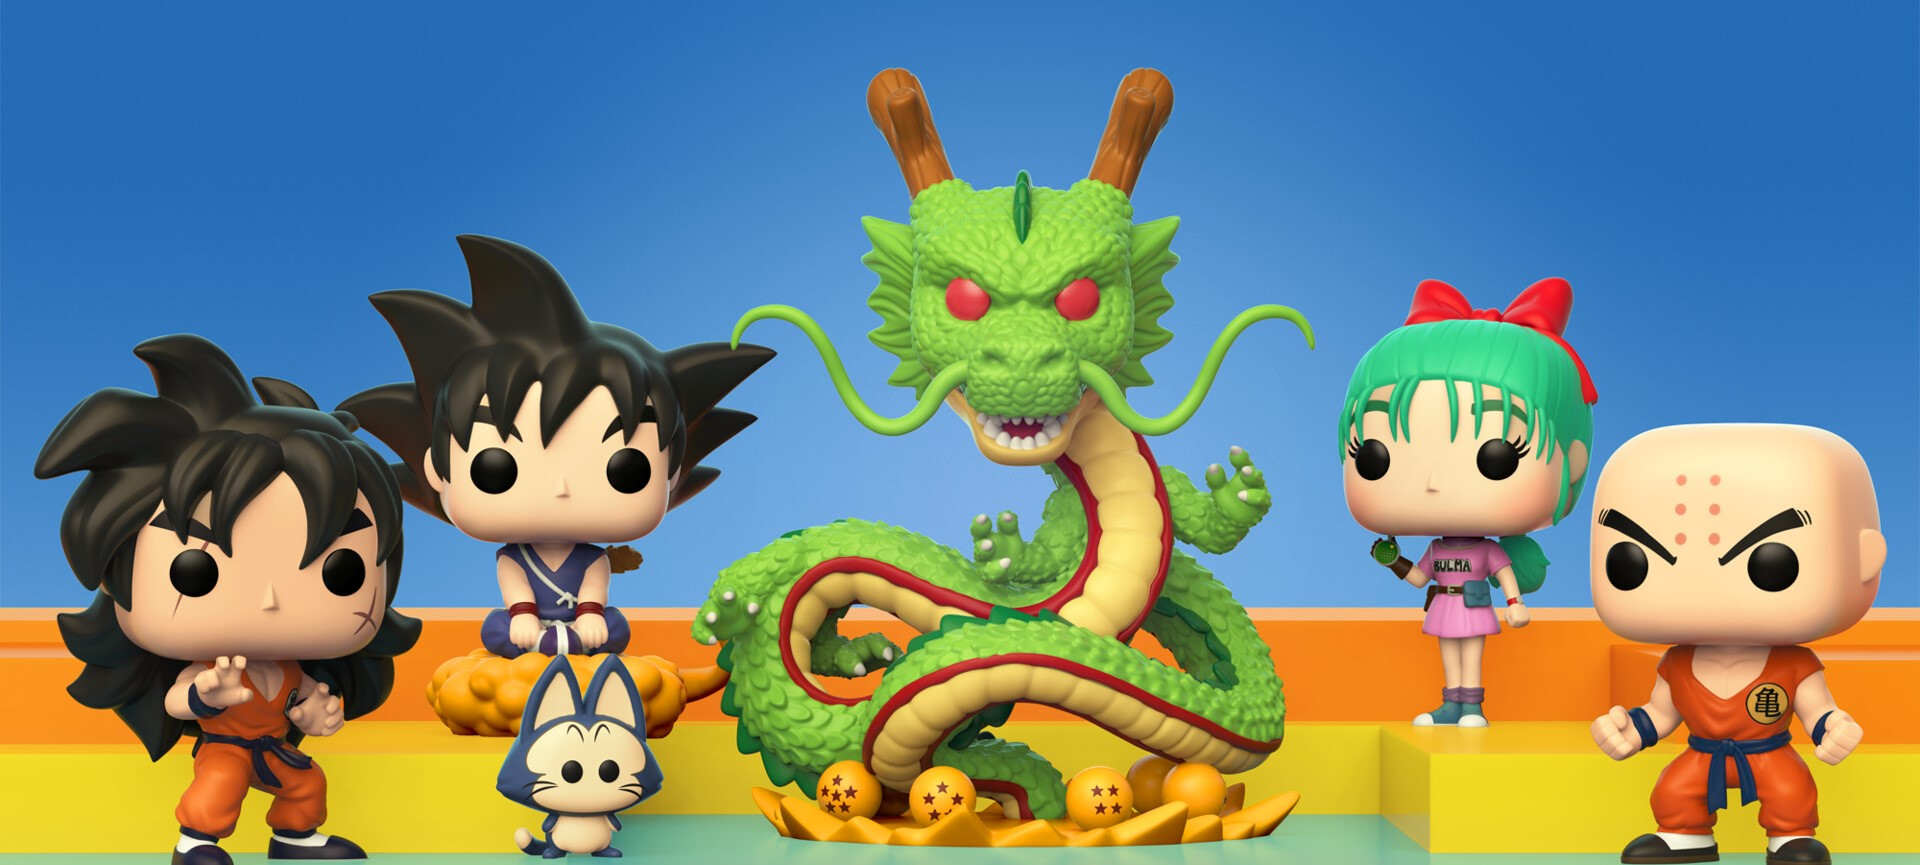
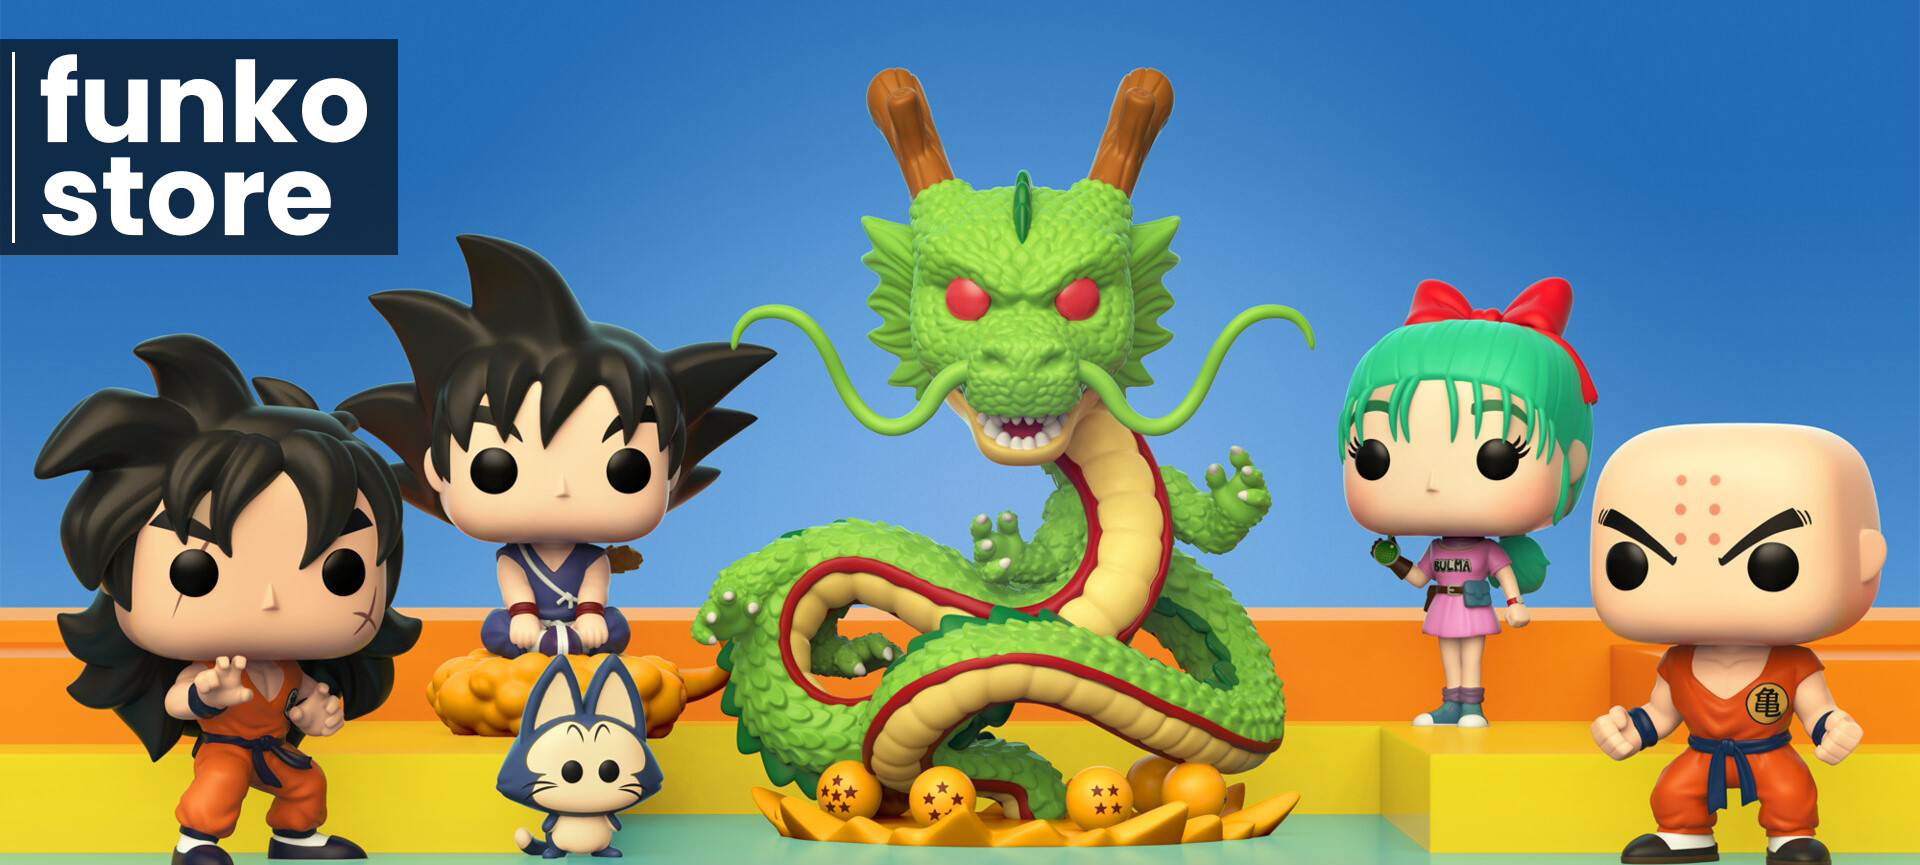
Visual Adjustments after Live 2
Changed Font Family for all CSS (from Montserrat to Poppins);
Visual adjustments and corrections for Footer (colors, icons, font-size, buttons, and many others);
Tags (classes) New and Discounts corrections for some products.

Changed region(s): [[0.0, 0.0312, 0.2188, 0.3121], [0.75, 0.3434, 0.7812, 0.3746]]

diff --git a/index.html b/index.html
@@ -72,7 +72,7 @@
                     <spam class="card__product--divprice"></spam>
                 </div>
     
-                <div class="news__products--card tag-discount" >
+                <div class="news__products--card tag-new" >
                     <div class="card__product">
                         <img class="card__product--img" src="./img/produto-25.png" alt="Cama para pet de cor vermelha e acolchoada" >
                         <div class="card__product--back"></div>
@@ -86,7 +86,7 @@
                     <spam class="card__product--divprice">99x de R$ 99,99</spam>
                 </div>
 
-                <div class="news__products--card">
+                <div class="news__products--card tag-discount">
                     <div class="card__product">
                         <img class="card__product--img" src="./img/produto-23.png" alt="Cama para pet com fixadores de parede">
                         <div class="card__product--back"></div>
@@ -100,7 +100,7 @@
                     <spam class="card__product--divprice"></spam>
                 </div>
 
-                <div class="news__products--card tag-new">
+                <div class="news__products--card tag-discount">
                     <div class="card__product">
                         <img class="card__product--img" src="./img/produto-24.png" alt="Cama para pet de cor vermelha e acolchoada">
                         <div class="card__product--back"></div>
@@ -129,7 +129,7 @@
                     <spam class="card__product--divprice"></spam>
                 </div>
     
-                <div class="news__products--card tag-discount">
+                <div class="news__products--card tag-new">
                     <div class="card__product">
                         <img class="card__product--img" src="./img/produto-25.png" alt="Cama para pet de cor vermelha e acolchoada" >
                         <div class="card__product--back"></div>
@@ -143,7 +143,7 @@
                     <spam class="card__product--divprice">99x de R$ 99,99</spam>
                 </div>
 
-                <div class="news__products--card">
+                <div class="news__products--card tag-discount">
                     <div class="card__product">
                         <img class="card__product--img" src="./img/produto-23.png" alt="Cama para pet com fixadores de parede">
                         <div class="card__product--back"></div>
@@ -157,7 +157,7 @@
                     <spam class="card__product--divprice"></spam>
                 </div>
 
-                <div class="news__products--card tag-new">
+                <div class="news__products--card tag-discount">
                     <div class="card__product">
                         <img class="card__product--img" src="./img/produto-24.png" alt="Cama para pet de cor vermelha e acolchoada">
                         <div class="card__product--back"></div>
@@ -202,7 +202,7 @@
                     <spam class="card__product--divprice"></spam>
                 </div>
     
-                <div class="highlights__products--card tag-discount">
+                <div class="highlights__products--card tag-new">
                     <div class="card__product">
                         <img class="card__product--img" src="./img/produto-25.png" alt="Cama para pet de cor vermelha e acolchoada" >
                         <div class="card__product--back"></div>
@@ -216,7 +216,7 @@
                     <spam class="card__product--divprice">99x de R$ 99,99</spam>
                 </div>
 
-                <div class="highlights__products--card">
+                <div class="highlights__products--card tag-discount">
                     <div class="card__product">
                         <img class="card__product--img" src="./img/produto-23.png" alt="Cama para pet com fixadores de parede">
                         <div class="card__product--back"></div>
@@ -230,7 +230,7 @@
                     <spam class="card__product--divprice"></spam>
                 </div>
 
-                <div class="highlights__products--card tag-new">
+                <div class="highlights__products--card tag-discount">
                     <div class="card__product">
                         <img class="card__product--img" src="./img/produto-24.png" alt="Cama para pet de cor vermelha e acolchoada">
                         <div class="card__product--back"></div>
@@ -259,7 +259,7 @@
                     <spam class="card__product--divprice"></spam>
                 </div>
     
-                <div class="highlights__products--card tag-discount">
+                <div class="highlights__products--card tag-new">
                     <div class="card__product">
                         <img class="card__product--img" src="./img/produto-25.png" alt="Cama para pet de cor vermelha e acolchoada" >
                         <div class="card__product--back"></div>
@@ -273,7 +273,7 @@
                     <spam class="card__product--divprice">99x de R$ 99,99</spam>
                 </div>
 
-                <div class="highlights__products--card">
+                <div class="highlights__products--card tag-discount">
                     <div class="card__product">
                         <img class="card__product--img" src="./img/produto-23.png" alt="Cama para pet com fixadores de parede">
                         <div class="card__product--back"></div>
@@ -287,7 +287,7 @@
                     <spam class="card__product--divprice"></spam>
                 </div>
 
-                <div class="highlights__products--card tag-new">
+                <div class="highlights__products--card tag-discount">
                     <div class="card__product">
                         <img class="card__product--img" src="./img/produto-24.png" alt="Cama para pet de cor vermelha e acolchoada">
                         <div class="card__product--back"></div>
@@ -352,13 +352,13 @@
 
                     </div> 
 
-                    <p>© 2019  •  CNPJ 00.000.000/0000-00</p><br>
+                    <p>© <script>document.write(new Date().getFullYear());</script>  •  CNPJ 00.000.000/0000-00</p><br>
                     <p>Rua Tal de Tal, 123 - Cidade, Estado</p>
 
                 </div>
                     
                 <div class="info__container--links">
-                    <h3>PET STORE</h3>
+                    <h3>FUNKO STORE</h3>
                     <a href="#">Quem Somos</a>
                     <a href="#">Como comprar</a>
                     <a href="#">Trocas e Devoluções</a>
@@ -367,9 +367,8 @@
     
                 <div class="info__container--contacts">
                     <h3>CONTATO</h3>
-                    <p>(99) 9999-9999</p>
-                    <p>(99) 9999-9999</p>
-                    <a href="mailto:petstore@petstore.com.br">petstore@petstore.com.br</a>
+                    <p>(15) 99180-7246</p>
+                    <a href="mailto:dwtoledo@outlook.com">dwtoledo@outlook.com</a>
                 </div>
     
                 <div class="info__container--payments">
@@ -397,9 +396,8 @@
         <section class="copyright">
 
             <div class="copyright__container">
-                <p>TECNOLOGIA E DESENVOLVIMENTO:</p>
-                <a href="#"><img src="./img/serie.png" class="logo-serie" alt="Logo da empresa Seri.e"></a>
-                <a href="#"><img src="./img/nuvemshop.png" class="logo-nuvemshop" alt="Logo da Nuvem Shop"></a>
+                <p>TECNOLOGIA E DESENVOLVIMENTO</p>
+                <a href="#"><img src="./img/logo.png" class="logo-serie" alt="Logo da empresa Seri.e"></a>
             </div>            
 
         </section>

diff --git a/css/style.css b/css/style.css
@@ -12,6 +12,11 @@
     scrollbar-width: none;
 }
 
+b {
+    color: var(--primary-color);
+    font-weight: 600;
+}
+
 body::-webkit-scrollbar {
     display: none;
 }
@@ -70,7 +75,7 @@ main {
 }
 
 .top-header__search > input::placeholder {
-    font-family: 'Montserrat', sans-serif;
+    font-family: 'Poppins', sans-serif;
     font-size: 0.9em;
 }
 
@@ -134,7 +139,6 @@ main {
 
 .categories-header__container img {
     border: 2px solid white;
-    border-radius: 20px;
 }
 
 @media (max-width: 1170px) {
@@ -215,7 +219,6 @@ main {
 .news__products--card,
 .highlights__products--card {
     display: grid;
-    font-size: 14px;
     grid-template-rows: auto;
     margin: 30px 0;
     position: relative;
@@ -253,8 +256,8 @@ main {
     background-color: var(--primary-color);
     border: none;
     color: var(--white-color);
-    font-family: 'Montserrat', sans-serif;
-    font-size: 12px;
+    font-family: 'Poppins', sans-serif;
+    font-size: 18px;
     font-weight: 600;
     padding: 15px;
 }
@@ -333,11 +336,12 @@ main {
 }
 
 .newsletter {
-    background-color: var(--primary-color);
+    background-color: rgb(40, 40, 40);
     color: var(--white-color);
     display: flex;
     justify-content: center;
     width: 100%;
+    margin-top: 30px;
 }
 
 .newsletter__container {
@@ -350,7 +354,7 @@ main {
 }
 
 .newsletter__container--info {
-    border-bottom: 1px solid var(--secondary-color);
+    border-bottom: 3px solid var(--secondary-color);
     display: flex;
     flex-wrap: wrap;
     justify-content: space-around;
@@ -366,18 +370,21 @@ main {
 .newsletter__container--info > p {
     align-items: center;
     display: flex;
-    font-size: 12px;
+    font-size: 18px;
     min-height: 70px;
 }
 
 .newsletter__container--info > p:before {
-    content: url('../img/icone-logo.png');
+    content: '';
+    background-image: url('../img/icone-logo.png');
+    background-size: 45px 39px;
     margin-right: 10px;
+    width: 45px;
+    height: 39px;
 }
 
 .newsletter__container--form {
     color: var(--white-color);
-    font-size: 14px;
     padding: 50px 0;
     width: 100%;
 }
@@ -407,7 +414,7 @@ main {
 
 .form__container--input::placeholder {
     color: var(--white-color);
-    font-family: 'Montserrat', sans-serif;
+    font-family: 'Poppins', sans-serif;
 }
 
 .form__container--input:focus {
@@ -445,7 +452,7 @@ main {
     color: var(--primary-font-color);
     column-gap: 20px;
     display: grid;
-    font-size: 12px;
+    font-size: 14px;
     grid-template-columns: 1fr 1fr 1fr 1fr;
     width: var(--container-width);
 }
@@ -551,6 +558,12 @@ main {
     color: inherit;
 }
 
+.info__container--contacts > h3,
+.info__container--links > h3,
+.info__container--payments > h3 {
+    font-size: 18px;
+}
+
 .info__container--payments {
     display: flex;
     flex-direction: column;
@@ -572,7 +585,7 @@ main {
 
 .copyright__container {
     align-items: center;
-    border-top: 2px #f0f0f0 solid;
+    border-top: 3px rgb(40, 40, 40) solid;
     display: flex;
     flex-wrap: wrap;
     justify-content: center;
@@ -582,19 +595,13 @@ main {
 
 .copyright__container > p {
     color: var(--primary-font-color);
-    font-size: 10px;
+    font-size: 16px;
     margin-right: 20px;
 }
 
-.logo-nuvemshop {
-    height: 17px;
-    margin-left: 20px;
-    width: 93px;
-}
-
 .logo-serie {
-    height: 23px;
-    width: 57px;
+    height: 40px;
+    width: auto;
 }
 
 .fixed-buttons {
